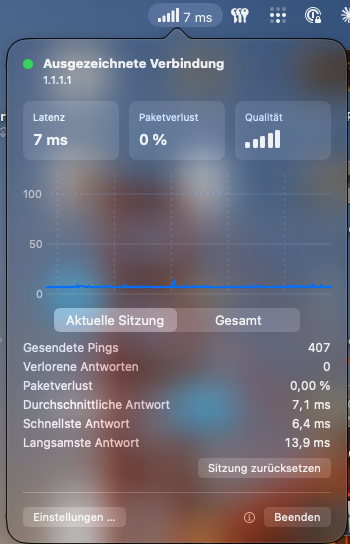
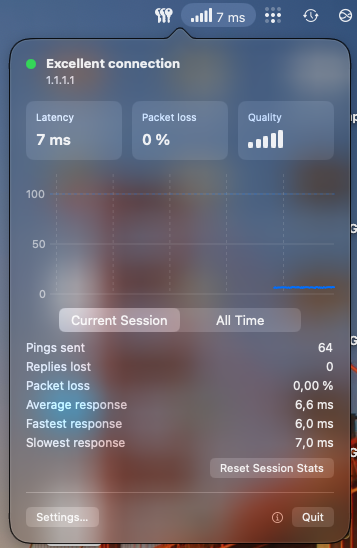
Use English screenshots in the README

diff --git a/README.md b/README.md
@@ -8,7 +8,7 @@ Autoping is a modern rebuild of [autoping](https://www.memset.com) 1.02 by Memse
 macOS drops Rosetta 2. This version keeps its behavior and adds what it was missing.
 
 <p align="center">
-  <img src="docs/popover.png" width="350" alt="Menu bar item and the details popover with latency, packet loss, a latency chart and statistics">
+  <img src="docs/popover.png" width="357" alt="Menu bar item and the details popover with latency, packet loss, a latency chart and statistics">
   &nbsp;&nbsp;
   <img src="docs/settings.png" width="430" alt="Settings window with host, IP version, slow ping threshold, timeout, menu bar and general options">
 </p>
